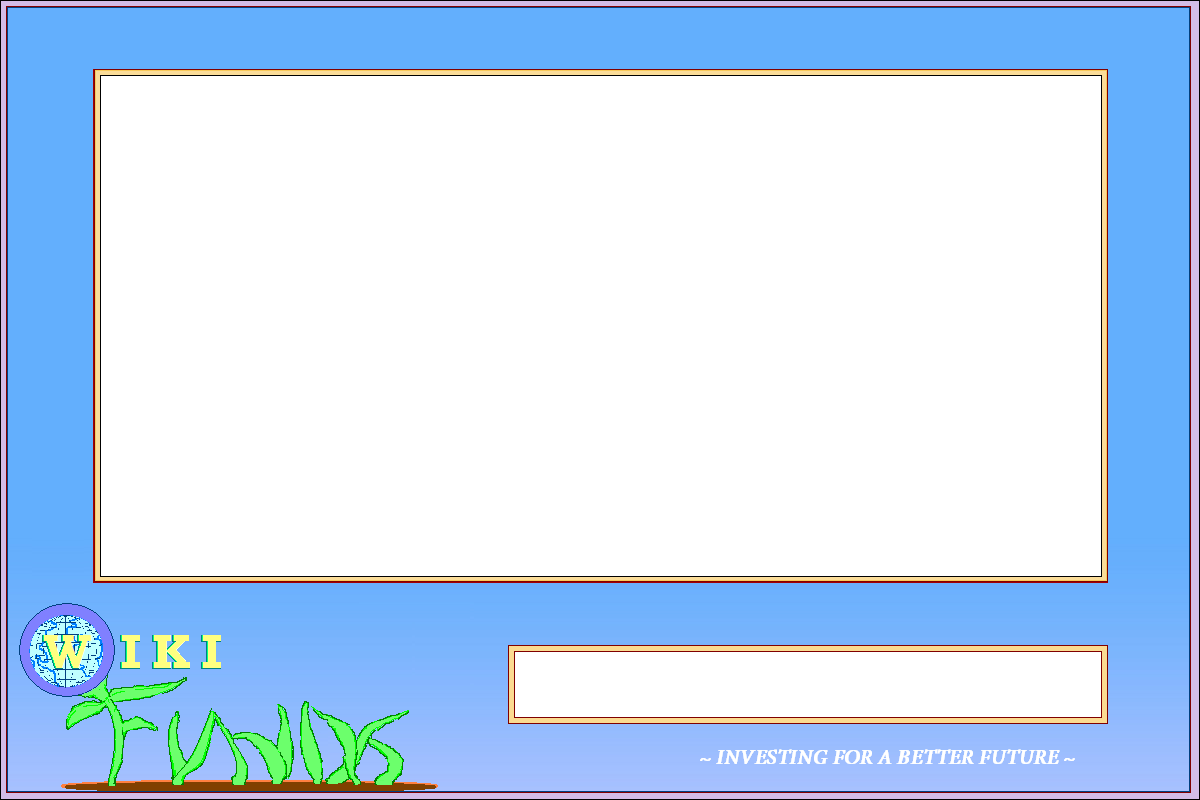
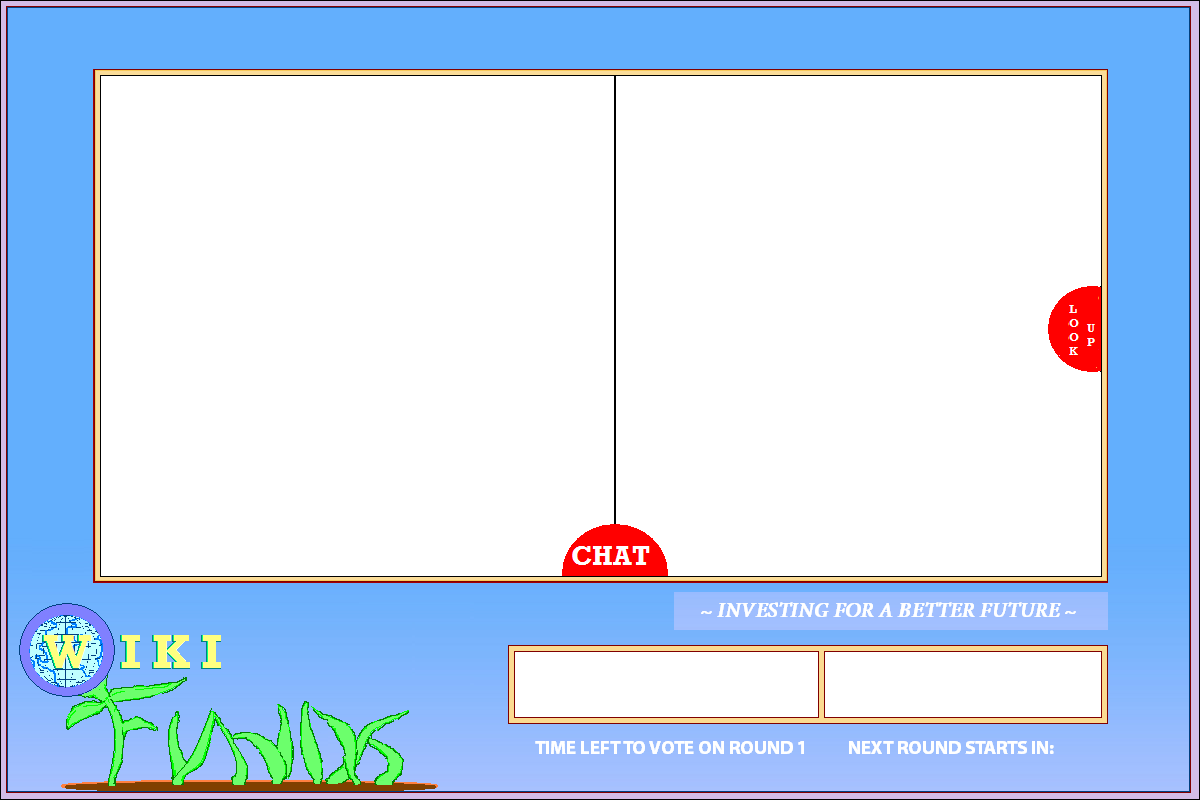
big changes

diff --git a/public/stylesheets/main.css b/public/stylesheets/main.css
@@ -14,19 +14,24 @@ body {
 
 }
 
+select{
+    width: 70px;
+}
 #left {
     position: absolute;
     width: 300px;
     top: 60px;
-    left: 50px;
+    left: 100px;
     text-align: center;
     font-family: arial;
 }
 
 #right {
 
+    font: 12px myriad pro;
     position: absolute;
-    left: 400px;
+    left: 550px;
+    top:50px;
     width: 400px;
 }
 
@@ -35,12 +40,9 @@ body {
 }
 
 #recipient {
-    position: absolute;
-    left: 100px;
-    top: 450px;
+
     font: 18px arial;
     border: 3px #008000 solid;
-    width: 300px;
     text-align: center;
     color: rgb(0, 128, 128);
 
@@ -48,20 +50,8 @@ body {
 
 #content {
     position: absolute;
-    top: 500px;
+    top: 460px;
     left: 460px;
-}
-
-#blurb {
-    position: absolute;
-    top: 540px;
-    left: 510px;
-    width: 380px;
-    background-color: #9ABDFF;
-    color: white;
-    font-size: 19px;
-    font-style: italic;
-    font-weight: bold;
-    vertical-align: middle;
-    text-align: center;
+    width: 100px;
+    height: 100px;
 }

diff --git a/app/controllers/investments_controller.rb b/app/controllers/investments_controller.rb
@@ -9,6 +9,32 @@ class InvestmentsController < ApplicationController
 
   end
 
+
+  def invest
+
+    @project = Project.first
+    counter = 5
+    @project.fund = @project.fund + 1
+
+    params[:investments].each do |investment|
+      name = investment[1]
+      if name != ""
+        temp_investment = @project.investments.find_or_initialize_by_name(name)
+        if !temp_investment.new_record?
+          temp_investment.vote = temp_investment.vote + counter + 1
+          temp_investment.save
+        else
+          temp_investment.vote = counter
+          temp_investment.save
+        end
+        counter = counter - 1
+      end
+    end
+    @project.save
+    redirect_to root_path
+  end
+
+
   def vote_up
 
     dollar = 0.1
@@ -57,4 +83,5 @@ class InvestmentsController < ApplicationController
 
 
   end
+
 end

diff --git a/app/controllers/projects_controller.rb b/app/controllers/projects_controller.rb
@@ -13,30 +13,7 @@ class ProjectsController < ApplicationController
   end
 
 
-  def update
-    @project = Project.first
 
-    counter = 5
-    @project.fund = @project.fund + 1
-    params[:project][:investments_attributes].each do |investment|
-      name = investment[1]["name"]
-      if name != ""
-        temp_investment = @project.investments.find_or_initialize_by_name(name)
-        if !temp_investment.new_record?
-          temp_investment.vote = temp_investment.vote + counter
-          temp_investment.save
-        else
-          temp_investment.vote = counter
-          temp_investment.save
-        end
-        counter = counter - 1
-      end
-    end
-    @project.save
-    redirect_to root_path
-
-
-  end
 
   def get_stocks
 

diff --git a/config/routes.rb b/config/routes.rb
@@ -3,7 +3,7 @@ Wikifund::Application.routes.draw do
   devise_for :users
 
   resources :investments, :projects
-
+  match "invest" => "investments#invest"
   match "get_stocks/:q" => "projects#get_stocks"
   match "investments/vote_up/:investment_id" => "investments#vote_up"
 
